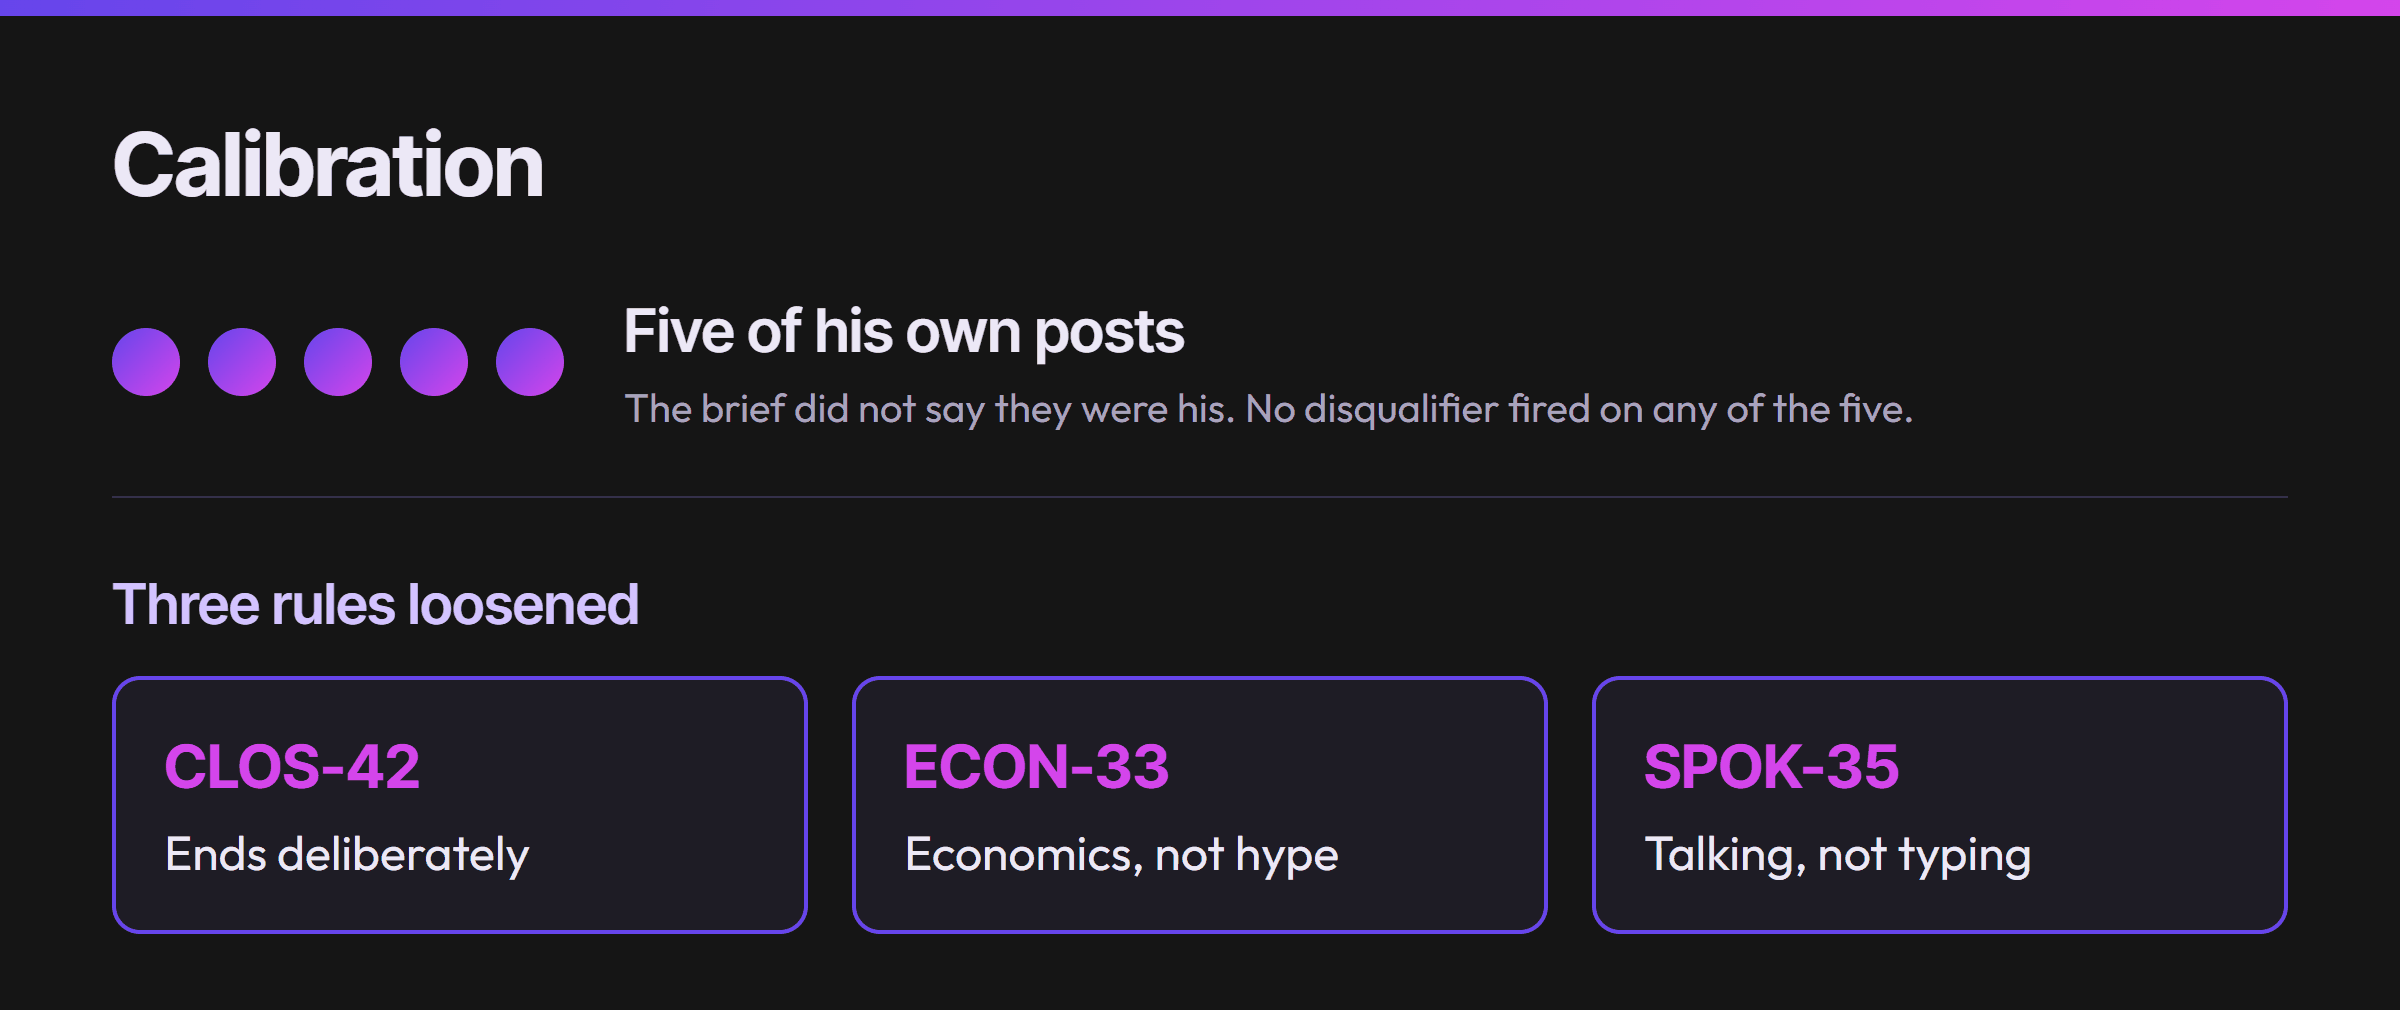
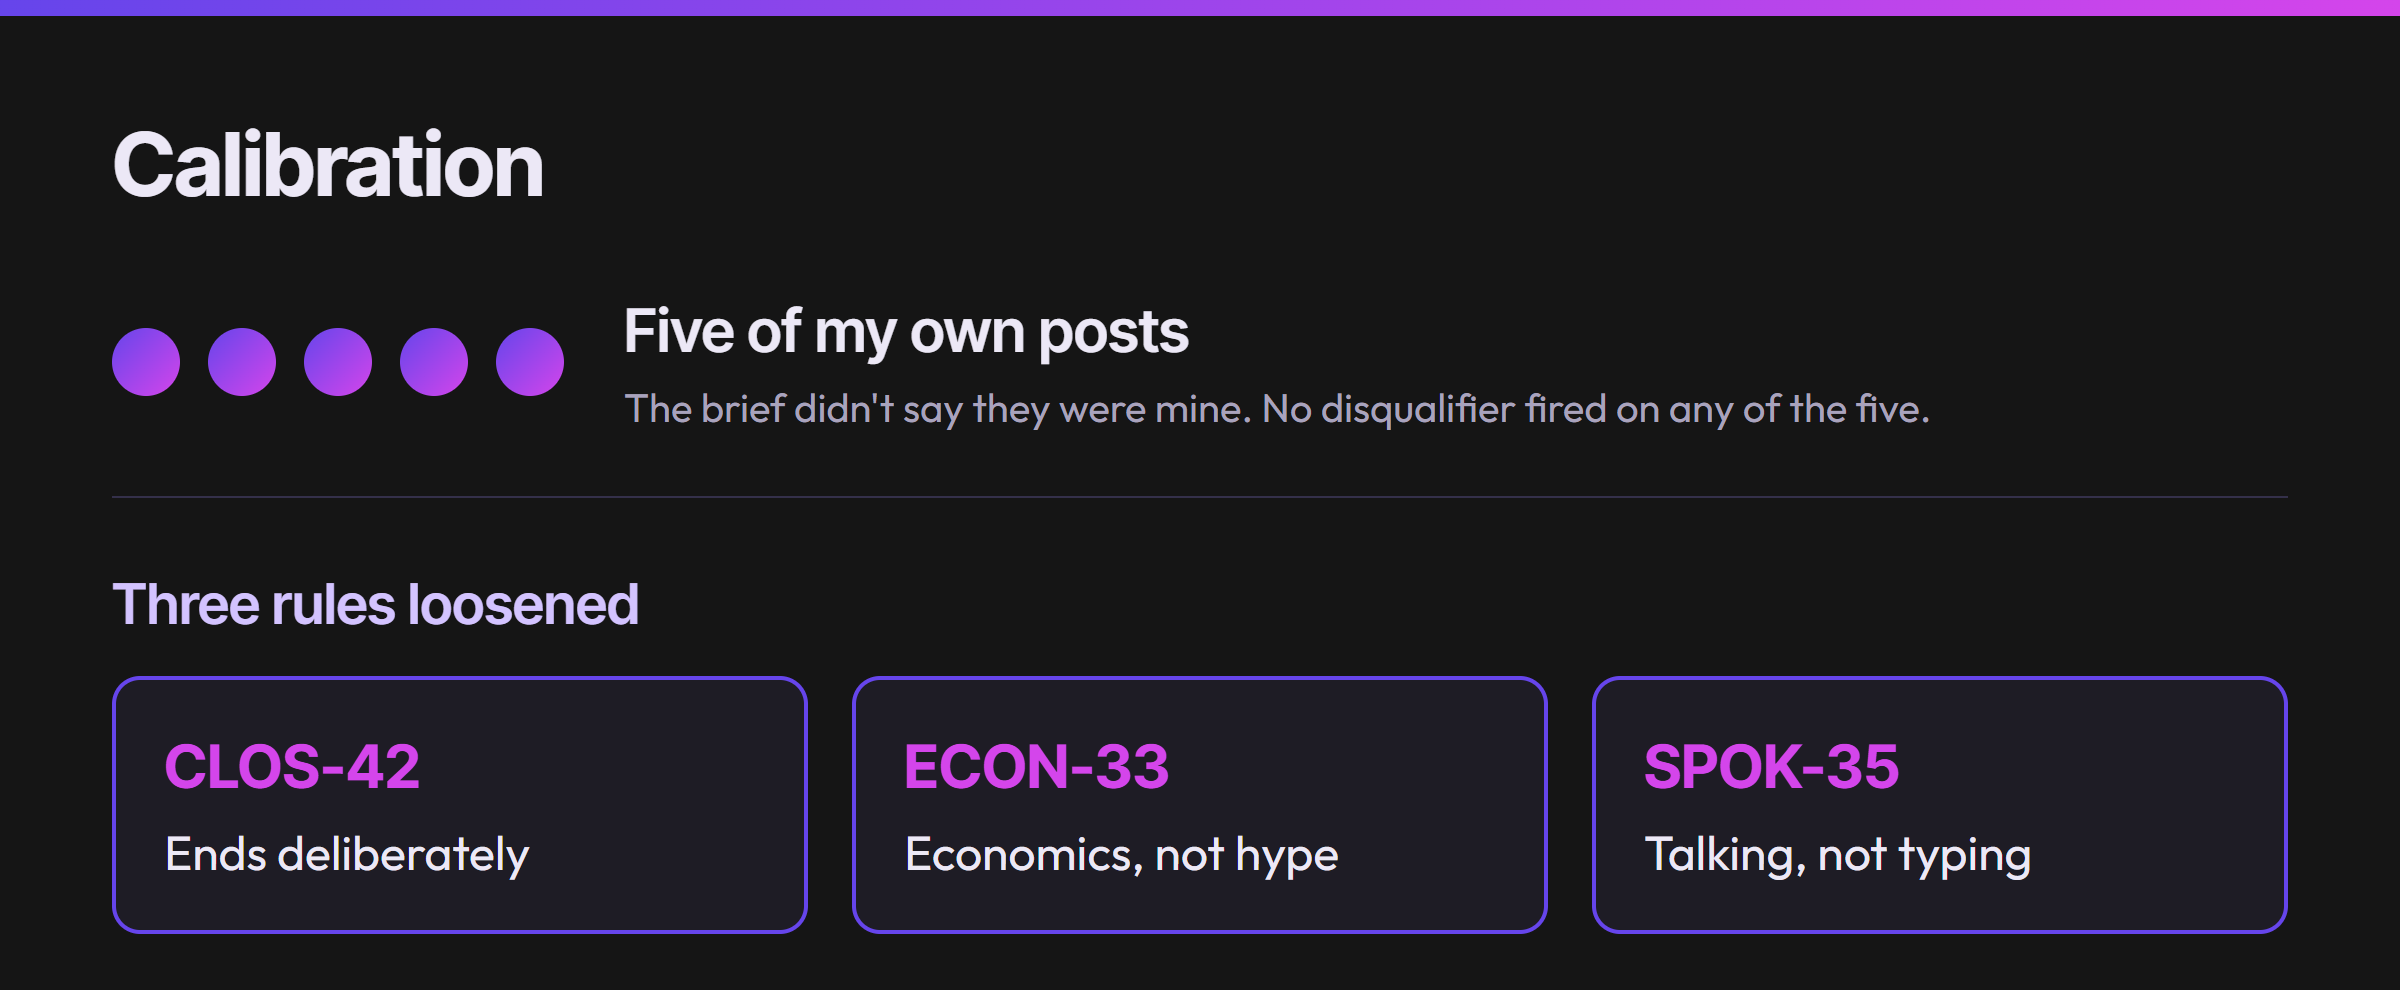
[website] Article 1: orchestration's figure strings (first person; the loop's footer without a grade) and both alt texts; figures re-rendered and trimmed
Claude-Session: https://claude.ai/code/session_01UyYB1uRVMzCqv36FCHyM1Y

diff --git a/website/content/demos/teaching-a-machine-to-sound-like-me.md b/website/content/demos/teaching-a-machine-to-sound-like-me.md
@@ -45,7 +45,7 @@ That's the major obstacle, and the skill is built around it. **The writer never 
 That last step matters most. As the skill puts it: "Grader prose teaches the writer what the judge likes to hear; the IDs tell it what to fix." Up to three attempts, then it stops. It never runs "one more". Every grade gets logged with the grader's findings, so I tune the rubric from evidence (because I do evals like a grown up).
 
 > [!figure] /demos-assets/teaching-a-machine-to-sound-like-me/writer-grader-split.png
-> the writer/grader split, drawn as a diagram: my words and a brief go to the writer; a script checks every countable rule; a fresh grader with the full rubric
+> Diagram: my words and a brief go to the writer, a script checks the countable rules, a fresh grader checks the rest, and only failed rule IDs go back.
 
 ## First, it graded me
 
@@ -56,7 +56,7 @@ Fair.
 Three rules still got loosened for flagging my real writing. The closer rule, for one, failed my deadpan "TL;DR someone broke my workflow and it's frustrating lol".
 
 > [!figure] /demos-assets/teaching-a-machine-to-sound-like-me/check-on-own-posts.png
-> the check on my own writing: five of my own posts graded blind, the rules each one failed, and the three rules loosened afterwards
+> The rubric checked against five of my own LinkedIn posts, and the three rules I loosened afterwards because they flagged my real writing.
 
 ## Fenced in, not gone
 
